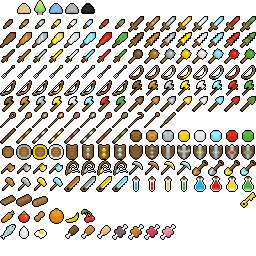
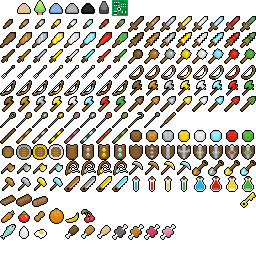
Not quite sure what I'm doing

Changed region(s): [[0.375, 0.0, 0.5, 0.0625]]

diff --git a/src/item/Item.cpp b/src/item/Item.cpp
@@ -69,6 +69,10 @@ namespace Game3 {
 		{Item::ASH,             { 64,   0, texturePalisade}},
 		{Item::CAULDRON,        {144, 208, textureTileset}},
 		{Item::VOLCANIC_SAND,   { 80,   0, texturePalisade}},
+		{Item::PURIFIER,        {112, 224, textureTileset}},
+		{Item::SILICON,         { 96,   0, texturePalisade}},
+		{Item::ELECTRONICS,     {112,   0, texturePalisade}},
+		{Item::SULFUR,          {240, 112, textureItems}},
 	};
 
 	std::unordered_map<ItemID, Durability> Item::durabilities {
@@ -98,40 +102,44 @@ namespace Game3 {
 		{Item::COAL,            std::make_shared<Item>        (Item::COAL,            "Coal",              5, 64)},
 		{Item::OIL,             std::make_shared<Item>        (Item::OIL,             "Oil",              15, 64)},
 		{Item::WOOD,            std::make_shared<Item>        (Item::WOOD,            "Wood",              3, 64)},
-		{Item::IRON_AXE,        std::make_shared<Tool>        (Item::IRON_AXE,        "Iron Axe",        150, 3.f, ItemAttribute::Axe)},
-		{Item::IRON_PICKAXE,    std::make_shared<Tool>        (Item::IRON_PICKAXE,    "Iron Pickaxe",    150, 3.f, ItemAttribute::Pickaxe)},
-		{Item::IRON_SHOVEL,     std::make_shared<Tool>        (Item::IRON_SHOVEL,     "Iron Shovel",     120, 3.f, ItemAttribute::Shovel)},
-		{Item::SAND,            std::make_shared<Landfill>    (Item::SAND,            "Sand",              1, 64, Monomap::SHALLOW_WATER, Landfill::DEFAULT_COUNT, Monomap::SAND)},
 		{Item::STONE,           std::make_shared<Item>        (Item::STONE,           "Stone",             1, 64)},
 		{Item::IRON_BAR,        std::make_shared<Item>        (Item::IRON_BAR,        "Iron Bar",         16, 64)},
 		{Item::SAPLING,         std::make_shared<Sapling>     (Item::SAPLING,         "Sapling",           5, 64)},
-		{Item::GOLD_AXE,        std::make_shared<Tool>        (Item::GOLD_AXE,        "Gold Axe",        400, .75f, ItemAttribute::Axe)},
-		{Item::GOLD_PICKAXE,    std::make_shared<Tool>        (Item::GOLD_PICKAXE,    "Gold Pickaxe",    400, .75f, ItemAttribute::Pickaxe)},
-		{Item::GOLD_SHOVEL,     std::make_shared<Tool>        (Item::GOLD_SHOVEL,     "Gold Shovel",     300, .75f, ItemAttribute::Shovel)},
 		{Item::GOLD_BAR,        std::make_shared<Item>        (Item::GOLD_BAR,        "Gold Bar",         45, 64)},
-		{Item::DIAMOND_AXE,     std::make_shared<Tool>        (Item::DIAMOND_AXE,     "Diamond Axe",     900, 1.f, ItemAttribute::Axe)},
-		{Item::DIAMOND_PICKAXE, std::make_shared<Tool>        (Item::DIAMOND_PICKAXE, "Diamond Pickaxe", 900, 1.f, ItemAttribute::Pickaxe)},
-		{Item::DIAMOND_SHOVEL,  std::make_shared<Tool>        (Item::DIAMOND_SHOVEL,  "Diamond Shovel",  700, 1.f, ItemAttribute::Shovel)},
 		{Item::WOODEN_WALL,     std::make_shared<Furniture>   (Item::WOODEN_WALL,     "Wooden Wall",       9, 64)},
 		{Item::PLANK,           std::make_shared<Item>        (Item::PLANK,           "Plank",             4, 64)},
-		{Item::CLAY,            std::make_shared<Landfill>    (Item::CLAY,            "Clay",              2, 64, clayRequirement)},
 		{Item::DIRT,            std::make_shared<Item>        (Item::DIRT,            "Dirt",              1, 64)},
 		{Item::BRICK,           std::make_shared<Item>        (Item::BRICK,           "Brick",             3, 64)},
 		{Item::POT,             std::make_shared<Item>        (Item::POT,             "Pot",              24, 64)},
 		{Item::PLANT_POT1,      std::make_shared<Furniture>   (Item::PLANT_POT1,      "Plant Pot",        32, 64)},
 		{Item::PLANT_POT2,      std::make_shared<Furniture>   (Item::PLANT_POT2,      "Plant Pot",        32, 64)},
 		{Item::PLANT_POT3,      std::make_shared<Furniture>   (Item::PLANT_POT3,      "Plant Pot",        32, 64)},
-		{Item::IRON_HAMMER,     std::make_shared<Hammer>      (Item::IRON_HAMMER,     "Iron Hammer",     150, 3.f)},
-		{Item::GOLD_HAMMER,     std::make_shared<Hammer>      (Item::GOLD_HAMMER,     "Gold Hammer",     400, .75f)},
-		{Item::DIAMOND_HAMMER,  std::make_shared<Hammer>      (Item::DIAMOND_HAMMER,  "Diamond Hammer",  900, 1.f)},
 		{Item::TOWER,           std::make_shared<Furniture>   (Item::TOWER,           "Tower",            10, 64)},
 		{Item::CAVE_ENTRANCE,   std::make_shared<CaveEntrance>(Item::CAVE_ENTRANCE,   "Cave Entrance",    50,  1)},
 		{Item::MEAD,            std::make_shared<Item>        (Item::MEAD,            "Mead",             10, 16)},
 		{Item::HONEY,           std::make_shared<Item>        (Item::HONEY,           "Honey",             5, 64)},
 		{Item::BOMB,            std::make_shared<Bomb>        (Item::BOMB,            "Bomb",             32, 64)},
 		{Item::ASH,             std::make_shared<Item>        (Item::ASH,             "Ash",               1, 64)},
+		{Item::SILICON,         std::make_shared<Item>        (Item::SILICON,         "Silicon",           2, 64)},
+		{Item::ELECTRONICS,     std::make_shared<Item>        (Item::ELECTRONICS,     "Electronics",      32, 64)},
+		{Item::SULFUR,          std::make_shared<Item>        (Item::SULFUR,          "Sulfur",           15, 64)},
 		{Item::CAULDRON,        std::make_shared<Furniture>   (Item::CAULDRON,        "Cauldron",        175,  1)},
+		{Item::PURIFIER,        std::make_shared<Furniture>   (Item::PURIFIER,        "Purifier",        300,  1)},
+		{Item::IRON_HAMMER,     std::make_shared<Hammer>      (Item::IRON_HAMMER,     "Iron Hammer",     150,  3.f)},
+		{Item::GOLD_HAMMER,     std::make_shared<Hammer>      (Item::GOLD_HAMMER,     "Gold Hammer",     400, .75f)},
+		{Item::DIAMOND_HAMMER,  std::make_shared<Hammer>      (Item::DIAMOND_HAMMER,  "Diamond Hammer",  900,  1.f)},
+		{Item::IRON_AXE,        std::make_shared<Tool>        (Item::IRON_AXE,        "Iron Axe",        150,  3.f, ItemAttribute::Axe)},
+		{Item::IRON_PICKAXE,    std::make_shared<Tool>        (Item::IRON_PICKAXE,    "Iron Pickaxe",    150,  3.f, ItemAttribute::Pickaxe)},
+		{Item::IRON_SHOVEL,     std::make_shared<Tool>        (Item::IRON_SHOVEL,     "Iron Shovel",     120,  3.f, ItemAttribute::Shovel)},
+		{Item::GOLD_AXE,        std::make_shared<Tool>        (Item::GOLD_AXE,        "Gold Axe",        400, .75f, ItemAttribute::Axe)},
+		{Item::GOLD_PICKAXE,    std::make_shared<Tool>        (Item::GOLD_PICKAXE,    "Gold Pickaxe",    400, .75f, ItemAttribute::Pickaxe)},
+		{Item::GOLD_SHOVEL,     std::make_shared<Tool>        (Item::GOLD_SHOVEL,     "Gold Shovel",     300, .75f, ItemAttribute::Shovel)},
+		{Item::DIAMOND_AXE,     std::make_shared<Tool>        (Item::DIAMOND_AXE,     "Diamond Axe",     900,  1.f, ItemAttribute::Axe)},
+		{Item::DIAMOND_PICKAXE, std::make_shared<Tool>        (Item::DIAMOND_PICKAXE, "Diamond Pickaxe", 900,  1.f, ItemAttribute::Pickaxe)},
+		{Item::DIAMOND_SHOVEL,  std::make_shared<Tool>        (Item::DIAMOND_SHOVEL,  "Diamond Shovel",  700,  1.f, ItemAttribute::Shovel)},
+		{Item::SAND,            std::make_shared<Landfill>    (Item::SAND,            "Sand",              1, 64, Monomap::SHALLOW_WATER, Landfill::DEFAULT_COUNT, Monomap::SAND)},
 		{Item::VOLCANIC_SAND,   std::make_shared<Landfill>    (Item::VOLCANIC_SAND,   "Volcanic Sand",     3, 64, Monomap::SHALLOW_WATER, Landfill::DEFAULT_COUNT, Monomap::VOLCANIC_SAND)},
+		{Item::CLAY,            std::make_shared<Landfill>    (Item::CLAY,            "Clay",              2, 64, clayRequirement)},
 		{Item::SAFFRON_MILKCAP, std::make_shared<Mushroom>(Item::SAFFRON_MILKCAP, "Saffron Milkcap",    10, 1 )},
 		{Item::HONEY_FUNGUS,    std::make_shared<Mushroom>(Item::HONEY_FUNGUS,    "Honey Fungus",       15, 18)},
 		{Item::BRITTLEGILL,     std::make_shared<Mushroom>(Item::BRITTLEGILL,     "Golden Brittlegill", 20, 7 )},

diff --git a/src/ui/ElementBufferedRenderer.cpp b/src/ui/ElementBufferedRenderer.cpp
@@ -8,6 +8,7 @@
 
 #include "resources.h"
 #include "Tiles.h"
+#include "realm/Realm.h"
 #include "ui/ElementBufferedRenderer.h"
 #include "util/Util.h"
 
@@ -58,7 +59,7 @@ namespace Game3 {
 		tilemap->texture.bind();
 
 		if (dirty) {
-			// recomputeLighting();
+			recomputeLighting();
 			dirty = false;
 		}
 
@@ -232,21 +233,24 @@ namespace Game3 {
 		const auto height = tilemap->tileSize * tilemap->height;
 
 		glBindTexture(GL_TEXTURE_2D, lfbBlurredTexture); CHECKGL
-		glTexImage2D(GL_TEXTURE_2D, 0, GL_RGB, width, height, 0, GL_RGB, GL_UNSIGNED_BYTE, nullptr); CHECKGL
-		glTexParameteri(GL_TEXTURE_2D, GL_TEXTURE_MIN_FILTER, GL_LINEAR); CHECKGL
-		glTexParameteri(GL_TEXTURE_2D, GL_TEXTURE_MAG_FILTER, GL_LINEAR); CHECKGL
+		glTexImage2D(GL_TEXTURE_2D, 0, GL_RGBA32F, width, height, 0, GL_RGBA, GL_FLOAT, nullptr); CHECKGL
+		constexpr GLint filter = GL_LINEAR;
+		glTexParameteri(GL_TEXTURE_2D, GL_TEXTURE_MIN_FILTER, filter); CHECKGL
+		glTexParameteri(GL_TEXTURE_2D, GL_TEXTURE_MAG_FILTER, filter); CHECKGL
 		glTexParameteri(GL_TEXTURE_2D, GL_TEXTURE_WRAP_S, GL_CLAMP); CHECKGL
 		glTexParameteri(GL_TEXTURE_2D, GL_TEXTURE_WRAP_T, GL_CLAMP); CHECKGL
+		glGenerateMipmap(GL_TEXTURE_2D);
 
 		glBindTexture(GL_TEXTURE_2D, lfbTexture); CHECKGL
-		glTexImage2D(GL_TEXTURE_2D, 0, GL_RGB, width, height, 0, GL_RGB, GL_UNSIGNED_BYTE, nullptr); CHECKGL
+		glTexImage2D(GL_TEXTURE_2D, 0, GL_RGBA32F, width, height, 0, GL_RGBA, GL_FLOAT, nullptr); CHECKGL
 		rectangle.update(width, height);
 		reshader.update(width, height);
 
-		glTexParameteri(GL_TEXTURE_2D, GL_TEXTURE_MIN_FILTER, GL_LINEAR); CHECKGL
-		glTexParameteri(GL_TEXTURE_2D, GL_TEXTURE_MAG_FILTER, GL_LINEAR); CHECKGL
+		glTexParameteri(GL_TEXTURE_2D, GL_TEXTURE_MIN_FILTER, filter); CHECKGL
+		glTexParameteri(GL_TEXTURE_2D, GL_TEXTURE_MAG_FILTER, filter); CHECKGL
 		glTexParameteri(GL_TEXTURE_2D, GL_TEXTURE_WRAP_S, GL_CLAMP); CHECKGL
 		glTexParameteri(GL_TEXTURE_2D, GL_TEXTURE_WRAP_T, GL_CLAMP); CHECKGL
+		glGenerateMipmap(GL_TEXTURE_2D);
 
 	}
 
@@ -260,9 +264,13 @@ namespace Game3 {
 		if (!tilemap)
 			return;
 
+		glMemoryBarrier(GL_ALL_BARRIER_BITS);
+
 		GLint gtk_buffer = 0;
 		glGetIntegerv(GL_FRAMEBUFFER_BINDING, &gtk_buffer); CHECKGL
 		glBindFramebuffer(GL_FRAMEBUFFER, lfbHandle1); CHECKGL
+
+		generateLightingTexture();
 
 		GLint saved_viewport[4];
 		glGetIntegerv(GL_VIEWPORT, saved_viewport);
@@ -273,6 +281,7 @@ namespace Game3 {
 
 		glDrawBuffer(GL_COLOR_ATTACHMENT0); CHECKGL
 
+
 		glFramebufferTexture2D(GL_FRAMEBUFFER, GL_COLOR_ATTACHMENT0, GL_TEXTURE_2D, lfbTexture, 0); CHECKGL
 
 		// Clearing to half-white because the color in the lightmap will be multiplied by two
@@ -282,44 +291,52 @@ namespace Game3 {
 		for (Index row = 0; row < tilemap->height; ++row) {
 			for (Index column = 0; column < tilemap->width; ++column) {
 				const Position pos(row, column);
-				const auto tile = (*tilemap)(pos);
+				const auto tile = (*realm->tilemap1)(pos);
 				if (tile == Monomap::LAVA) {
 					const float x = column * tilesize;
 					const float y = row * tilesize;
 					const float radius = 1.5f;
-					// rectangle.drawOnScreen({1.f, .5f, 0.f, .5f}, x - radius * tilesize, y - radius * tilesize, (2.f * radius + 1.f) * tilesize, (2.f * radius + 1.f) * tilesize);
-					rectangle.drawOnScreen({1.f, 0.f, 0.f, 1.f}, x - radius * tilesize, y - radius * tilesize, (2.f * radius + 1.f) * tilesize, (2.f * radius + 1.f) * tilesize);
+					rectangle.drawOnScreen({1.f, .5f, 0.f, .5f}, x - radius * tilesize, y - radius * tilesize, (2.f * radius + 1.f) * tilesize, (2.f * radius + 1.f) * tilesize);
+					// rectangle.drawOnScreen({1.f, 0.f, 0.f, 1.f}, x - radius * tilesize, y - radius * tilesize, (2.f * radius + 1.f) * tilesize, (2.f * radius + 1.f) * tilesize); CHECKGL
 				}
 			}
 		}
 
-		rectangle.drawOnScreen({1.0f, 0.f, 0.f, 1.f}, 0, 0, 128 * 16 * 0.5, 128 * 16 * 0.5);
+		rectangle.drawOnScreen({1.0f, 1.f, 0.f, 1.f}, 0, 0, 128 * 16 * 0.5, 128 * 16 * 0.5);
 
 		reshader.set("xs", static_cast<float>(width));
 		reshader.set("ys", static_cast<float>(height));
-		reshader.set("r", 1.0f);
+		reshader.set("r", 0.1f);
+
+		glMemoryBarrier(GL_ALL_BARRIER_BITS);
 
 		for (int i = 0; i < 1; ++i) {
 			glFramebufferTexture2D(GL_FRAMEBUFFER, GL_COLOR_ATTACHMENT0, GL_TEXTURE_2D, lfbBlurredTexture, 0); CHECKGL
+			glDrawBuffer(GL_COLOR_ATTACHMENT0); CHECKGL
 			reshader.set("axis", 0);
 			reshader(lfbTexture);
 
+			glMemoryBarrier(GL_ALL_BARRIER_BITS);
+
 			glFramebufferTexture2D(GL_FRAMEBUFFER, GL_COLOR_ATTACHMENT0, GL_TEXTURE_2D, lfbTexture, 0); CHECKGL
+			glDrawBuffer(GL_COLOR_ATTACHMENT0); CHECKGL
 			reshader.set("axis", 1);
 			reshader(lfbBlurredTexture);
 		}
 
-		for (Index row = 0; row < tilemap->height; ++row) {
-			for (Index column = 0; column < tilemap->width; ++column) {
-				const Position pos(row, column);
-				const auto tile = (*tilemap)(pos);
-				if (tile == Monomap::LAVA) {
-					const float x = column * tilesize;
-					const float y = row * tilesize;
-					rectangle.drawOnScreen({.666f, .666f, .666f, 1.f}, x, y, tilesize, tilesize);
-				}
-			}
-		}
+		glMemoryBarrier(GL_ALL_BARRIER_BITS);
+
+		// for (Index row = 0; row < tilemap->height; ++row) {
+		// 	for (Index column = 0; column < tilemap->width; ++column) {
+		// 		const Position pos(row, column);
+		// 		const auto tile = (*tilemap)(pos);
+		// 		if (tile == Monomap::LAVA) {
+		// 			const float x = column * tilesize;
+		// 			const float y = row * tilesize;
+		// 			rectangle.drawOnScreen({.666f, .666f, .666f, 1.f}, x, y, tilesize, tilesize);
+		// 		}
+		// 	}
+		// }
 
 		glViewport(saved_viewport[0], saved_viewport[1], static_cast<GLsizei>(saved_viewport[2]), static_cast<GLsizei>(saved_viewport[3]));
 		glBindFramebuffer(GL_FRAMEBUFFER, gtk_buffer); CHECKGL

diff --git a/src/game/Game.cpp b/src/game/Game.cpp
@@ -36,12 +36,23 @@ namespace Game3 {
 		registerPrimaryRecipe(std::vector<ItemStack> {{Item::CLAY,  1}}, ItemStack(Item::BRICK, 1), CraftingStationType::Furnace);
 		registerPrimaryRecipe(std::vector<ItemStack> {{Item::CLAY, 10}}, ItemStack(Item::POT,   1), CraftingStationType::Furnace);
 
+		// Early-game low-yield silicon
+		registerPrimaryRecipe(std::vector<ItemStack> {{Item::SAND, 10}}, ItemStack(Item::SILICON, 1), CraftingStationType::Cauldron);
+
+		// High-yield silicon
+		registerPrimaryRecipe(std::vector<ItemStack> {{Item::SAND, 2}}, ItemStack(Item::SILICON, 1), CraftingStationType::Purifier);
+
+		registerPrimaryRecipe(std::vector<ItemStack> {{Item::IRON_BAR, 1}, {Item::SILICON, 4}, {Item::COAL, 1}}, ItemStack(Item::ELECTRONICS, 1), CraftingStationType::Furnace);
+		registerPrimaryRecipe(std::vector<ItemStack> {{Item::ELECTRONICS, 4}, {Item::IRON_BAR, 8}}, ItemStack(Item::PURIFIER, 1), CraftingStationType::Anvil);
+
 		registerPrimaryRecipe(std::vector<ItemStack> {{Item::POT, 1}, {Item::SAPLING, 1}}, ItemStack(Item::PLANT_POT1, 1));
 		registerPrimaryRecipe(std::vector<ItemStack> {{Item::POT, 1}, {Item::SAPLING, 1}}, ItemStack(Item::PLANT_POT2, 1));
 		registerPrimaryRecipe(std::vector<ItemStack> {{Item::POT, 1}, {Item::SAPLING, 1}}, ItemStack(Item::PLANT_POT3, 1));
 		registerPrimaryRecipe(std::vector<ItemStack> {{Item::STONE, 8}}, ItemStack(Item::TOWER, 1));
 		registerPrimaryRecipe(std::vector<ItemStack> {{Item::STONE, 10}, {Item::PLANK, 10}}, ItemStack(Item::CAVE_ENTRANCE, 1));
 		registerPrimaryRecipe(std::vector<ItemStack> {{Item::IRON_BAR, 10}}, ItemStack(Item::CAULDRON, 1));
+
+		registerPrimaryRecipe(std::vector<ItemStack> {{Item::VOLCANIC_SAND, 4}}, ItemStack(Item::SULFUR, 1), CraftingStationType::Purifier);
 
 		// Temporary recipes
 		registerPrimaryRecipe(std::vector<ItemStack> {{Item::WOOD,  1}}, ItemStack(Item::PLANK, 1));

diff --git a/src/tileentity/Ghost.cpp b/src/tileentity/Ghost.cpp
@@ -20,12 +20,18 @@ namespace Game3 {
 		place.realm->setLayer2(place.position, Monomap::CAULDRON_RED_FULL);
 	}
 
+	static void spawnPurifier(const Place &place) {
+		place.realm->add(TileEntity::create<CraftingStation>(Monomap::PURIFIER, place.position, CraftingStationType::Purifier));
+		place.realm->setLayer2(place.position, Monomap::PURIFIER);
+	}
+
 	GhostDetails GhostDetails::WOODEN_WALL {GhostType::WoodenWall, true,  32,  6, 0};
 	GhostDetails GhostDetails::PLANT_POT1  {GhostType::Normal,     false, 32, 12, 4};
 	GhostDetails GhostDetails::PLANT_POT2  {GhostType::Normal,     false, 32, 12, 5};
 	GhostDetails GhostDetails::PLANT_POT3  {GhostType::Normal,     false, 32, 12, 6};
 	GhostDetails GhostDetails::TOWER       {GhostType::Tower,      true,  32,  6, 7};
 	GhostDetails GhostDetails::CAULDRON    {spawnCauldron, Monomap::CAULDRON_RED_FULL};
+	GhostDetails GhostDetails::PURIFIER    {spawnPurifier, Monomap::PURIFIER};
 
 	GhostDetails & GhostDetails::get(const ItemStack &stack) {
 		switch (stack.item->id) {
@@ -35,6 +41,7 @@ namespace Game3 {
 			case Item::PLANT_POT3:  return PLANT_POT3;
 			case Item::TOWER:       return TOWER;
 			case Item::CAULDRON:    return CAULDRON;
+			case Item::PURIFIER:    return PURIFIER;
 			default: throw std::runtime_error("Couldn't get GhostDetails for " + stack.item->name);
 		}
 	}

diff --git a/src/realm/Realm.cpp b/src/realm/Realm.cpp
@@ -534,9 +534,9 @@ namespace Game3 {
 		const Position position(row, column);
 		pathMap[getIndex(position)] = isWalkable(row, column, *tileset);
 		updateNeighbors(position);
-		renderer1.markDirty();
-		renderer2.markDirty();
-		renderer3.markDirty();
+		renderer1.markDirty(this);
+		renderer2.markDirty(this);
+		renderer3.markDirty(this);
 	}
 
 	void Realm::setLayerHelper(Index index) {
@@ -544,9 +544,9 @@ namespace Game3 {
 		const Position position = getPosition(index);
 		pathMap[index] = isWalkable(position.row, position.column, *tileset);
 		updateNeighbors(position);
-		renderer1.markDirty();
-		renderer2.markDirty();
-		renderer3.markDirty();
+		renderer1.markDirty(this);
+		renderer2.markDirty(this);
+		renderer3.markDirty(this);
 	}
 
 	void Realm::resetPathMap() {

diff --git a/include/ui/ElementBufferedRenderer.h b/include/ui/ElementBufferedRenderer.h
@@ -16,7 +16,7 @@ namespace Game3 {
 			void render(float divisor) override;
 			void reupload();
 			bool onBackbufferResized(int width, int height) override;
-			inline void markDirty() { dirty = true; }
+			inline void markDirty(Realm *realm_) { dirty = true; realm = realm_; }
 
 			operator bool() const { return initialized; }
 
@@ -36,6 +36,7 @@ namespace Game3 {
 			std::vector<GLint> brightTiles;
 			RectangleRenderer rectangle;
 			Reshader reshader;
+			Realm *realm = nullptr;
 
 			void createShader();
 			void generateVertexBufferObject();

diff --git a/include/item/Item.h b/include/item/Item.h
@@ -83,6 +83,10 @@ namespace Game3 {
 			constexpr static ItemID GREY_KNIGHT     = 49;
 			constexpr static ItemID CAULDRON        = 50;
 			constexpr static ItemID VOLCANIC_SAND   = 51;
+			constexpr static ItemID PURIFIER        = 52;
+			constexpr static ItemID SILICON         = 53;
+			constexpr static ItemID ELECTRONICS     = 54;
+			constexpr static ItemID SULFUR          = 55;
 
 			static std::unordered_map<ItemID, ItemTexture> itemTextures;
 			static std::map<ItemID, std::shared_ptr<Item>> items;

diff --git a/include/Tiles.h b/include/Tiles.h
@@ -126,6 +126,7 @@ namespace Game3 {
 		constexpr static TileID CAULDRON_GREEN_FULL  = 427;
 		constexpr static TileID ANVIL         = 453;
 		constexpr static TileID FURNACE       = 454;
+		constexpr static TileID PURIFIER      = 455;
 		constexpr static TileID SHALLOW_WATER = 481;
 		constexpr static TileID WATER         = 482;
 		constexpr static TileID DEEP_WATER    = 483;

diff --git a/src/ui/Reshader.cpp b/src/ui/Reshader.cpp
@@ -51,9 +51,9 @@ namespace Game3 {
 
 		shader.set("model", model); CHECKGL
 
-		glActiveTexture(GL_TEXTURE0); CHECKGL
+		glActiveTexture(GL_TEXTURE4); CHECKGL
 		glBindTexture(GL_TEXTURE_2D, texture); CHECKGL
-		shader.set("txr", 0); CHECKGL
+		shader.set("txr", 4); CHECKGL
 
 		glBindVertexArray(quadVAO); CHECKGL
 		glDrawArrays(GL_TRIANGLES, 0, 6); CHECKGL

diff --git a/include/Types.h b/include/Types.h
@@ -22,7 +22,7 @@ namespace Game3 {
 	/** Number of quarter-hearts. */
 	using HitPoints    = uint32_t;
 
-	enum class CraftingStationType {None, Furnace, Anvil, Cauldron};
+	enum class CraftingStationType {None, Furnace, Anvil, Cauldron, Purifier};
 	enum class Ore {Coal, Copper, Iron, Gold, Diamond};
 
 	class Player;

diff --git a/include/tileentity/Ghost.h b/include/tileentity/Ghost.h
@@ -39,6 +39,7 @@ namespace Game3 {
 		static GhostDetails PLANT_POT2;
 		static GhostDetails PLANT_POT3;
 		static GhostDetails CAULDRON;
+		static GhostDetails PURIFIER;
 
 		static GhostDetails & get(const ItemStack &);
 	};
